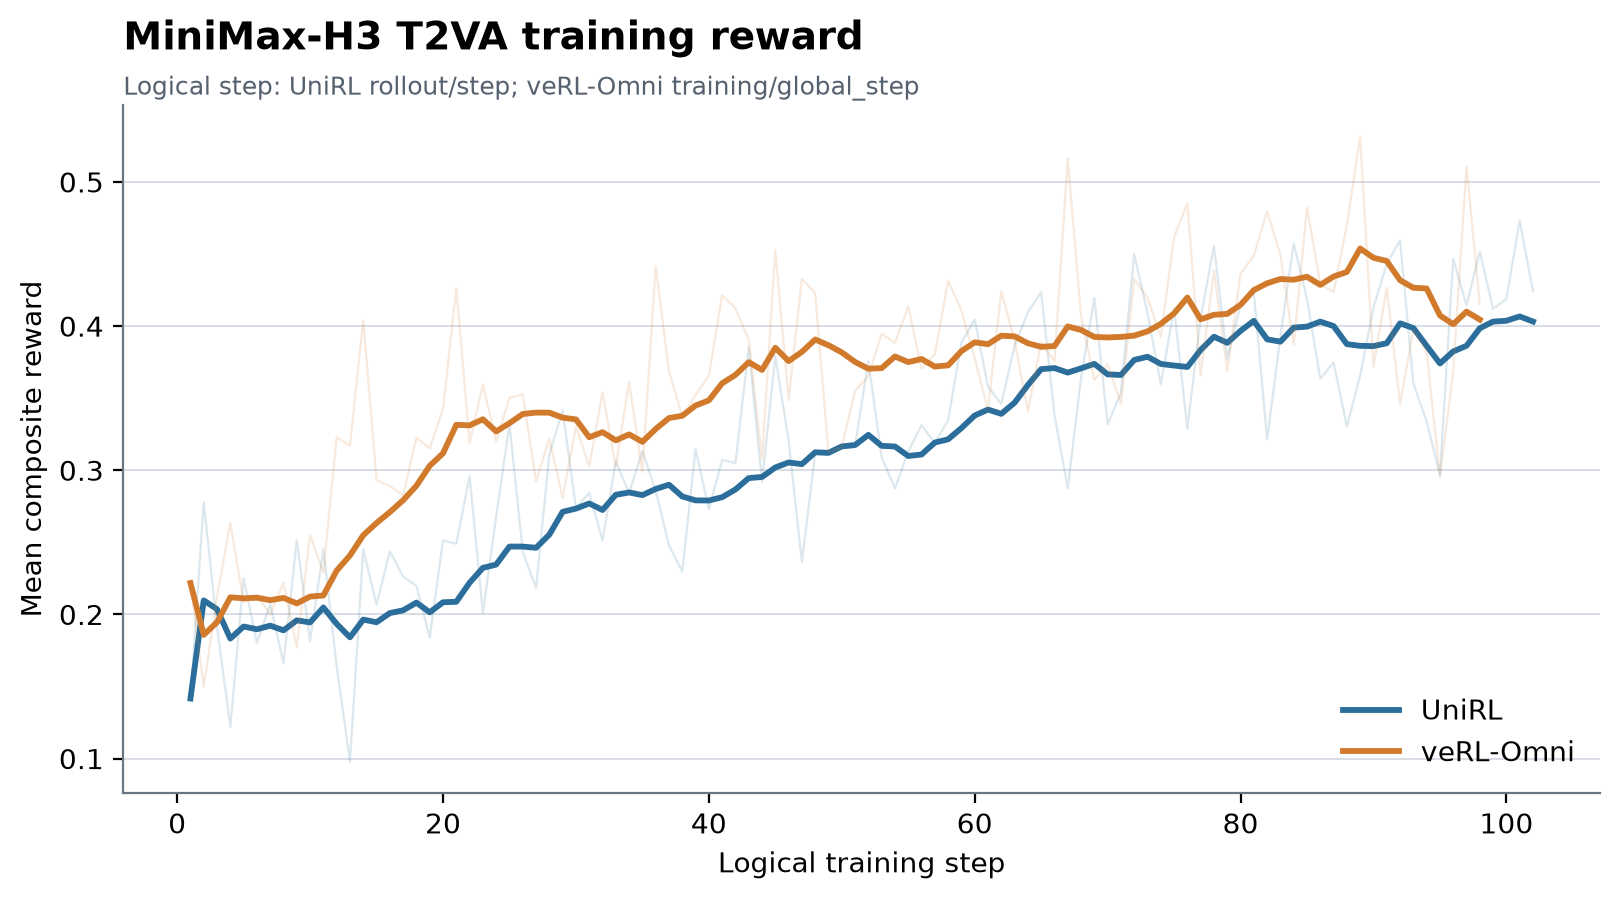
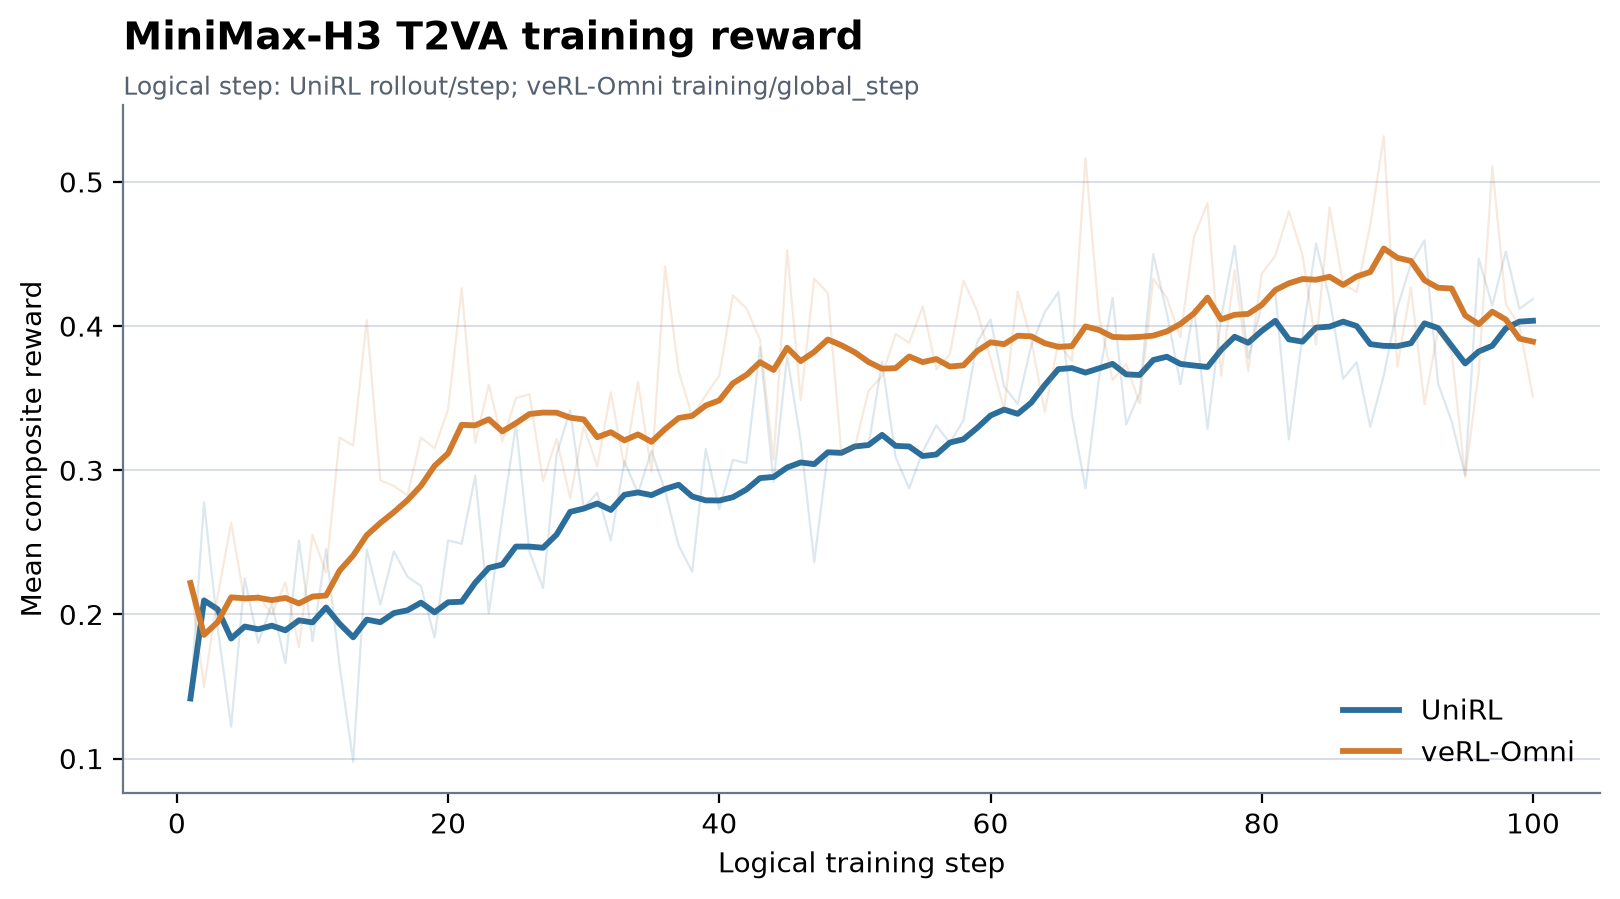
docs(results): add MiniMax-H3 cache timing

diff --git a/artifacts/reported_results/2026-09-30-minimax-h3/README.md b/artifacts/reported_results/2026-09-30-minimax-h3/README.md
@@ -8,6 +8,7 @@ UniRL and a configuration-matched veRL-Omni control.
 - UniRL source: [PR403 commit `d8e4aefa`](https://github.com/Tencent-Hunyuan/UniRL/commit/d8e4aefa7a266b229e05a82f7ac17bbac537e639)
 - UniRL run: [`x8b0x8al`](https://wandb.ai/leviking98z-zhejiang-university/unirl-minimax-h3-t2va/runs/x8b0x8al)
 - veRL-Omni run: [`646mvxxs`](https://wandb.ai/leviking98z-zhejiang-university/unirl-minimax-h3-t2va/runs/646mvxxs)
+- Cache-fix check: [`munhe02k`](https://wandb.ai/leviking98z-zhejiang-university/unirl-minimax-h3-t2va/runs/munhe02k)
 - Hardware: one node with 8 NVIDIA H20 GPUs per run
 - Work unit: 8 prompts × 16 samples = 128 trajectories per step
 - Sampling: 256 × 384, 124 frames, 10 denoising/SDE transitions
@@ -24,9 +25,9 @@ optimizer, LoRA targets, reward functions, and seed.
 
 ![MiniMax-H3 training reward](curve.png)
 
-Both runs learn under the matched recipe. UniRL's mean reward averaged over the
-first/last 10 recorded steps was **0.194 / 0.403**; veRL-Omni's was
-**0.212 / 0.405**.
+Both runs learn under the matched recipe. The figure fixes both curves to their
+first 100 logical steps. UniRL's mean reward averaged over the first/last 10
+steps was **0.194 / 0.404**; veRL-Omni's was **0.212 / 0.389**.
 
 [`curve.csv`](curve.csv) uses each framework's logical step: UniRL
 `rollout/step` and veRL-Omni `training/global_step`. W&B's default `_step` is
@@ -37,17 +38,20 @@ not comparable because one UniRL logical step produces multiple W&B records.
 ![MiniMax-H3 end-to-end performance](performance.png)
 
 [`performance.csv`](performance.csv) reports medians and interquartile ranges.
-The long-run comparison uses the same logical steps 2–98, excluding step 1 as
-warm-up. PR403 UniRL measured **1882 s/step**, versus **1567 s/step** for
-veRL-Omni.
+The long-run comparison uses the same logical steps 2–100, excluding step 1 as
+warm-up. PR403 UniRL measured **1887 s/step**, versus **1568 s/step** for
+veRL-Omni. The cache-only check measured **1551 s/step** over steps 2–4: an
+18.0% reduction from PR403 and within 1.1% of the veRL-Omni long-run median.
 
 The PR403 gap is concentrated in rollout generation. Its frozen 32B Qwen3-VL
 conditioner is recomputed for every sibling sample when
 `forward_batch_size=1`. [PR410](https://github.com/Tencent-Hunyuan/UniRL/pull/410)
 introduced a CPU prompt-embedding cache; the
 exact [`conditioning_cache.patch`](conditioning_cache.patch) used here is a
-cache-only backport of that fix. It is reported as a four-step regression check
-(step 1 warm-up, steps 2–4 measured) once that run completes.
+cache-only backport of that fix. Its generation median fell from **745 s** in
+the PR403 long run to **405 s**, while its training median remained **1104 s**.
+The check contains only three post-warm-up measurements, so it validates the
+regression fix rather than serving as a long-run variance estimate.
 
 End-to-end step time is the primary comparison. Framework-native phase timers
 have different boundaries, so they are retained in the CSV but are not stacked
